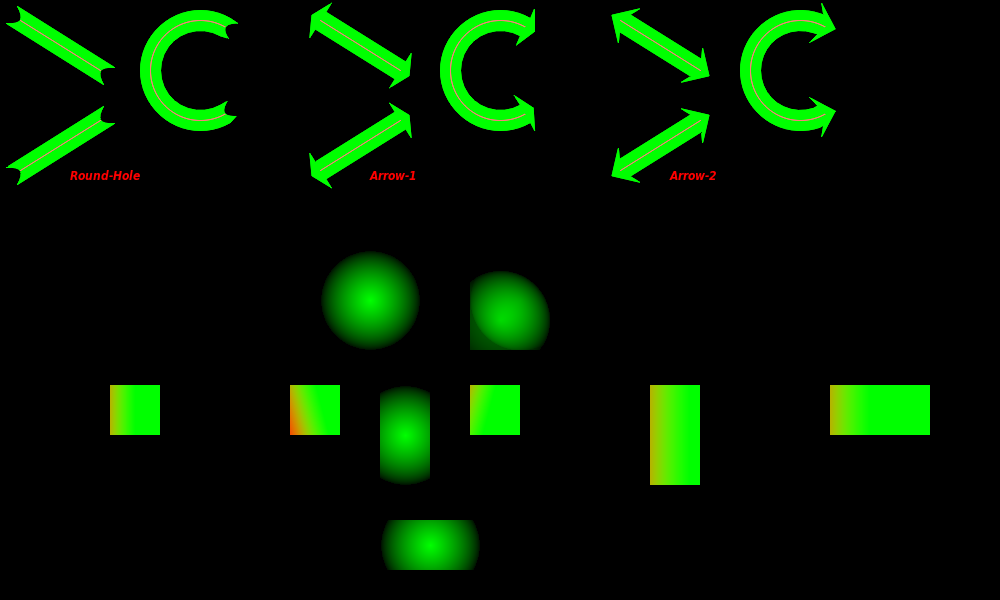
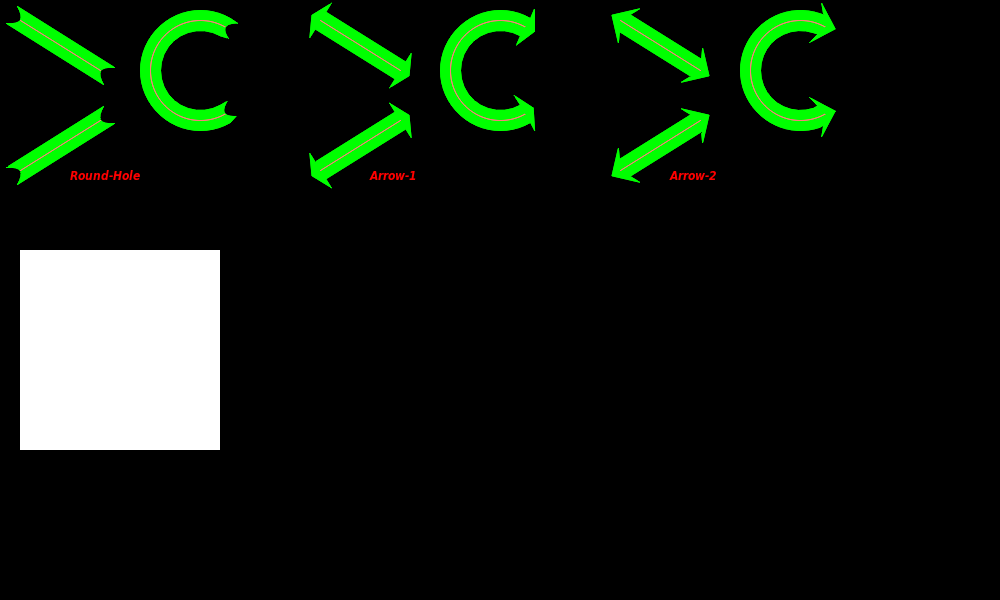
Experimenting with radial gradient

diff --git a/src/Pt-Gfx/Rasterizer2.cpp b/src/Pt-Gfx/Rasterizer2.cpp
@@ -518,8 +518,144 @@ void Rasterizer2::updateGradientBrush_gen2DLinearGradient(Pt::int32_t width, Pt:
 }
 
 
+// Based on: Smooth HTML5 Canvas Radial Gradients with Dithering
+//           http://rectangleworld.com/demos/DitheredRadial/DitheredRadialExample.html
+//           Original code by Rectangle World, 2013
 void Rasterizer2::updateGradientBrush_gen2DRadialGradient(Pt::int32_t width, Pt::int32_t height)
 {
+
+    const ColorStops& colStops = _brush.gradientStops();
+    if(colStops.empty()) return;
+
+    const PointF& begPos = _brush.gradientBegin();
+    const float   begRad = _brush.gradientBeginRadius();
+
+    const PointF& endPos = _brush.gradientEnd();
+    const float   endRad = _brush.gradientEndRadius();
+
+    const float xDiff = endPos.x() - begPos.x();
+    const float yDiff = endPos.y() - begPos.y();
+    const float rDiff = endRad     - begRad;
+
+    const float a       = rDiff * rDiff - xDiff * xDiff - yDiff * yDiff;
+    const float rBegDif = 2.0f * begRad * rDiff;
+    const float rBegSqr = begRad * begRad;
+
+    // Walk through the pixels and generate the gradient
+
+    const Pt::int32_t  numPixels    = width * height;
+          Pt::uint8_t* pixelBuffer  = _brushBuffer.data();
+          Pt::uint8_t  rgba32Res[4] = { 0, 0, 0, 255 };
+
+    for(Pt::int32_t i = 0; i < numPixels; ++i) {
+        const Pt::int32_t x    = i % width;
+        const Pt::int32_t y    = i / width;
+        const float       dx   = x - begPos.x();
+        const float       dy   = y - endPos.y();
+        const float       b    = rBegDif + 2.0f * (dx * xDiff + dy * yDiff);
+        const float       c    = rBegSqr - dx * dx - dy * dy;
+        const float       dscm = b * b - 4 * a * c;
+        // Interpolate the color
+        if(dscm >= 0.0f) {
+            float ratio = (-b * sqrtf(dscm)) / (2.0f * a);
+                 if(ratio < 0.0f) ratio = 0.0f;
+            else if(ratio > 1.0f) ratio = 1.0f;
+            colStops.calculateInterpolatedColorRGBA32(rgba32Res, ratio);
+        }
+        // Put the pixel
+        *pixelBuffer++ = 255;//rgba32Res[2];
+        *pixelBuffer++ = 255;//rgba32Res[1];
+        *pixelBuffer++ = 255;//rgba32Res[0];
+        *pixelBuffer++ = 255;//rgba32Res[3];
+    }
+
+    /*
+        if (discrim >= 0) {
+
+             //find out what two stops this is between
+            if (ratio == 1) {
+                stopNumber = this.colorStops.length-1;
+            }
+            else {
+                stopNumber = 0;
+                found = false;
+                while (!found) {
+                    found = (ratio < this.colorStops[stopNumber].ratio);
+                    if (!found) {
+                        stopNumber++;
+                    }
+                }
+            }
+
+            //calculate color.
+            r0 = this.colorStops[stopNumber-1].r;
+            g0 = this.colorStops[stopNumber-1].g;
+            b0 = this.colorStops[stopNumber-1].b;
+            r1 = this.colorStops[stopNumber].r;
+            g1 = this.colorStops[stopNumber].g;
+            b1 = this.colorStops[stopNumber].b;
+            ratio0 = this.colorStops[stopNumber-1].ratio;
+            ratio1 = this.colorStops[stopNumber].ratio;
+
+            f = (ratio-ratio0)/(ratio1-ratio0);
+            r = r0 + (r1 - r0)*f;
+            g = g0 + (g1 - g0)*f;
+            b = b0 + (b1 - b0)*f;
+        }
+
+        else {
+            r = r0;
+            g = g0;
+            b = b0;
+        }
+
+        //set color as float values in buffer arrays
+        rBuffer.push(r);
+        gBuffer.push(g);
+        bBuffer.push(b);
+    }
+
+    //While converting floats to integer valued color values, apply Floyd-Steinberg dither.
+    for (i = 0; i<len/4; i++) {
+        nearestValue = ~~(rBuffer[i]);
+        quantError =rBuffer[i] - nearestValue;
+        rBuffer[i+1] += 7/16*quantError;
+        rBuffer[i-1+rectW] += 3/16*quantError;
+        rBuffer[i + rectW] += 5/16*quantError;
+        rBuffer[i+1 + rectW] += 1/16*quantError;
+
+        nearestValue = ~~(gBuffer[i]);
+        quantError =gBuffer[i] - nearestValue;
+        gBuffer[i+1] += 7/16*quantError;
+        gBuffer[i-1+rectW] += 3/16*quantError;
+        gBuffer[i + rectW] += 5/16*quantError;
+        gBuffer[i+1 + rectW] += 1/16*quantError;
+
+        nearestValue = ~~(bBuffer[i]);
+        quantError =bBuffer[i] - nearestValue;
+        bBuffer[i+1] += 7/16*quantError;
+        bBuffer[i-1+rectW] += 3/16*quantError;
+        bBuffer[i + rectW] += 5/16*quantError;
+        bBuffer[i+1 + rectW] += 1/16*quantError;
+    }
+
+    //copy to pixel data
+    for (i=0; i<len; i += 4) {
+        q = i/4;
+        pixelData[i] = ~~rBuffer[q];
+        pixelData[i+1] = ~~gBuffer[q];
+        pixelData[i+2] = ~~bBuffer[q];
+        pixelData[i+3] = 255;
+    }
+
+    ctx.putImageData(image,rectX0,rectY0);
+
+}
+
+     */
+
+
+/*
     // Determine the start and end colors
     Pt::uint8_t sc[4], ec[4], rc[4];
     updateGradientBrush_getStartEndColors(sc, ec);
@@ -577,6 +713,7 @@ void Rasterizer2::updateGradientBrush_gen2DRadialGradient(Pt::int32_t width, Pt:
             *pixel++ = rc[3];
         }
     }
+    */
 }
 
 

diff --git a/src/Pt-Gfx/tests/ImagePainterTest2_Draw_Extra.cpp b/src/Pt-Gfx/tests/ImagePainterTest2_Draw_Extra.cpp
@@ -68,6 +68,15 @@ static void testDrawExtra(const char* title, Image& image, Painter& painter)
     ip2->setPen(penText);
     ip2->drawText( PointF(70 + 600, 180), "Arrow-2" );
 
+    // Radial gradient
+    ColorStops stops;
+    stops.add(0.0, Color::fromRgb8(255, 0, 0, 175));
+    stops.add(1.0, Color::fromRgb8(0, 255, 0, 175));
+
+    painter.setBrush( Brush::radialGradient(0.5, 0.5, 0.0, 0.5, 0.5, 0.5, stops) );
+    painter.fillRect( RectF(PointF(20, 250), SizeF(200, 200)) );
+
+/*
     // --- Part 1 ---
 
     // Rectangular gradient
@@ -82,12 +91,12 @@ static void testDrawExtra(const char* title, Image& image, Painter& painter)
     stops.add(0, Color::fromRgb8(255, 0, 0, 175));
     stops.add(1.0, Color::fromRgb8(0, 255, 0, 175));
 
-    painter.setBrush( Brush::radialGradient(0.5, 0.5, 0, 
+    painter.setBrush( Brush::radialGradient(0.5, 0.5, 0,
                                             0.5, 0.5, 0.5, stops) );
     painter.fillRect( RectF(PointF(20 + 300, 250), SizeF(100, 100)) );
 
     painter.setBrush( Brush::radialGradient(0.3f, 0.7f, 0,
-                                            0.5, 0.5, 0.5, 
+                                            0.5, 0.5, 0.5,
                                             stops) );
     painter.fillRect( RectF(PointF(20 + 450, 250), SizeF(100, 100)) );
 
@@ -108,7 +117,7 @@ static void testDrawExtra(const char* title, Image& image, Painter& painter)
     //painter.fillRect( RectF(PointF(20 + 180, 250 + 135), SizeF(50, 100)) );
 
     // Radial gradient
-    painter.setBrush( Brush::radialGradient(0.5, 0.5, 0, 
+    painter.setBrush( Brush::radialGradient(0.5, 0.5, 0,
                                             0.5, 0.5, 0.5, stops) );
     painter.fillRect( RectF(PointF(20 + 360, 250 + 135), SizeF(50, 100)) );
 
@@ -155,6 +164,8 @@ static void testDrawExtra(const char* title, Image& image, Painter& painter)
 
     //painter.setBrush( Brush::conicalGradient(Color::fromRgb8(255, 0, 0, 175), Color::fromRgb8(0, 255, 0, 175), 0.5f, 0.5f, 30.0f) );
     //painter.fillRect( RectF(PointF(20 + 720, 250 + 270), SizeF(100, 50)) );
+
+    */
 
     sdlPreviewRGB888Buffer(title, image.data(), image.width(), image.height(), !!ip2);
 }

diff --git a/include/Pt/Gfx/Brush.h b/include/Pt/Gfx/Brush.h
@@ -45,6 +45,10 @@ class ColorStop
         ColorStop(float position, const Color& color)
         : _position(position)
         , _color(color)
+        , _r8(color.red  () / 257)
+        , _g8(color.green() / 257)
+        , _b8(color.blue () / 257)
+        , _a8(color.alpha() / 257)
         {}
 
         float position() const
@@ -53,9 +57,22 @@ class ColorStop
         const Color& color() const
         { return _color; }
 
+        const Pt::uint8_t r8() const
+        { return _r8; }
+
+        const Pt::uint8_t g8() const
+        { return _g8; }
+
+        const Pt::uint8_t b8() const
+        { return _b8; }
+
+        const Pt::uint8_t a8() const
+        { return _a8; }
+
     private:
-        float _position;
-        Color _color;
+        float       _position;
+        Color       _color;
+        Pt::uint8_t _r8, _g8, _b8, _a8;
 };
 
 
@@ -85,6 +102,8 @@ class ColorStops
 
         const ColorStop& back() const
         { return _stops.back(); }
+
+        void calculateInterpolatedColorRGBA32(Pt::uint8_t rgba32[4], const float position) const;
 
     private:
         std::vector<ColorStop> _stops;
@@ -264,7 +283,7 @@ class BrushData
         void setRadialGradient(float beginX, float beginY, float beginRadius,
                                float endX, float endY, float endRadius,
                                const ColorStops& colorStops);
-       
+
 
 
         Brush::GradientStyle gradient() const
@@ -285,10 +304,10 @@ class BrushData
 
         const PointF& gradientEnd() const
         { return _gradientEnd; }
-        
+
         float gradientEndRadius() const
         { return _gradientEndRadius; }
-        
+
         void setTexture(const Image& texture,
                        Pt::int32_t offsetX, Pt::int32_t offsetY);
 

diff --git a/src/Pt-Gfx/Brush.cpp b/src/Pt-Gfx/Brush.cpp
@@ -35,6 +35,15 @@ namespace Pt {
 
 namespace Gfx {
 
+void ColorStops::calculateInterpolatedColorRGBA32(Pt::uint8_t rgba32[4], const float position) const
+{
+    rgba32[0] = position * 255.0f;
+    rgba32[1] = position * 255.0f;
+    rgba32[2] = position * 255.0f;
+    rgba32[3] = 255;
+}
+
+
 Brush::Brush()
 : _brushData( new BrushData() )
 {}
@@ -103,7 +112,7 @@ Brush Brush::radialGradient(float beginX, float beginY, float beginRadius,
                             const ColorStops& colorStops)
 {
     BrushData* data = new BrushData();
-    data->setRadialGradient(beginX, beginY, beginRadius, 
+    data->setRadialGradient(beginX, beginY, beginRadius,
                             endX, endY, endRadius, colorStops);
     return Brush(data);
 }
@@ -153,8 +162,8 @@ const Color& Brush::gradientColor() const
 
 
 const ColorStops& Brush::gradientStops() const
-{ 
-    return _brushData->gradientStops(); 
+{
+    return _brushData->gradientStops();
 }
 
 
@@ -314,7 +323,7 @@ void BrushData::setRadialGradient(const PointF& begin, float beginRadius,
     _isNull        = false;
     _fillStyle     = Brush::Gradient;
     _positionMode  = Brush::Absolute;
-    
+
     _gradient      = Brush::Radial;
     _gradientStops = colorStops;
     _gradientAngle = 0.0f;
@@ -322,7 +331,7 @@ void BrushData::setRadialGradient(const PointF& begin, float beginRadius,
     _gradientBeginRadius = beginRadius;
     _gradientEnd = end;
     _gradientEndRadius = endRadius;
-    
+
     _ofsX          = 0;
     _ofsY          = 0;
     _texture       = Image();
